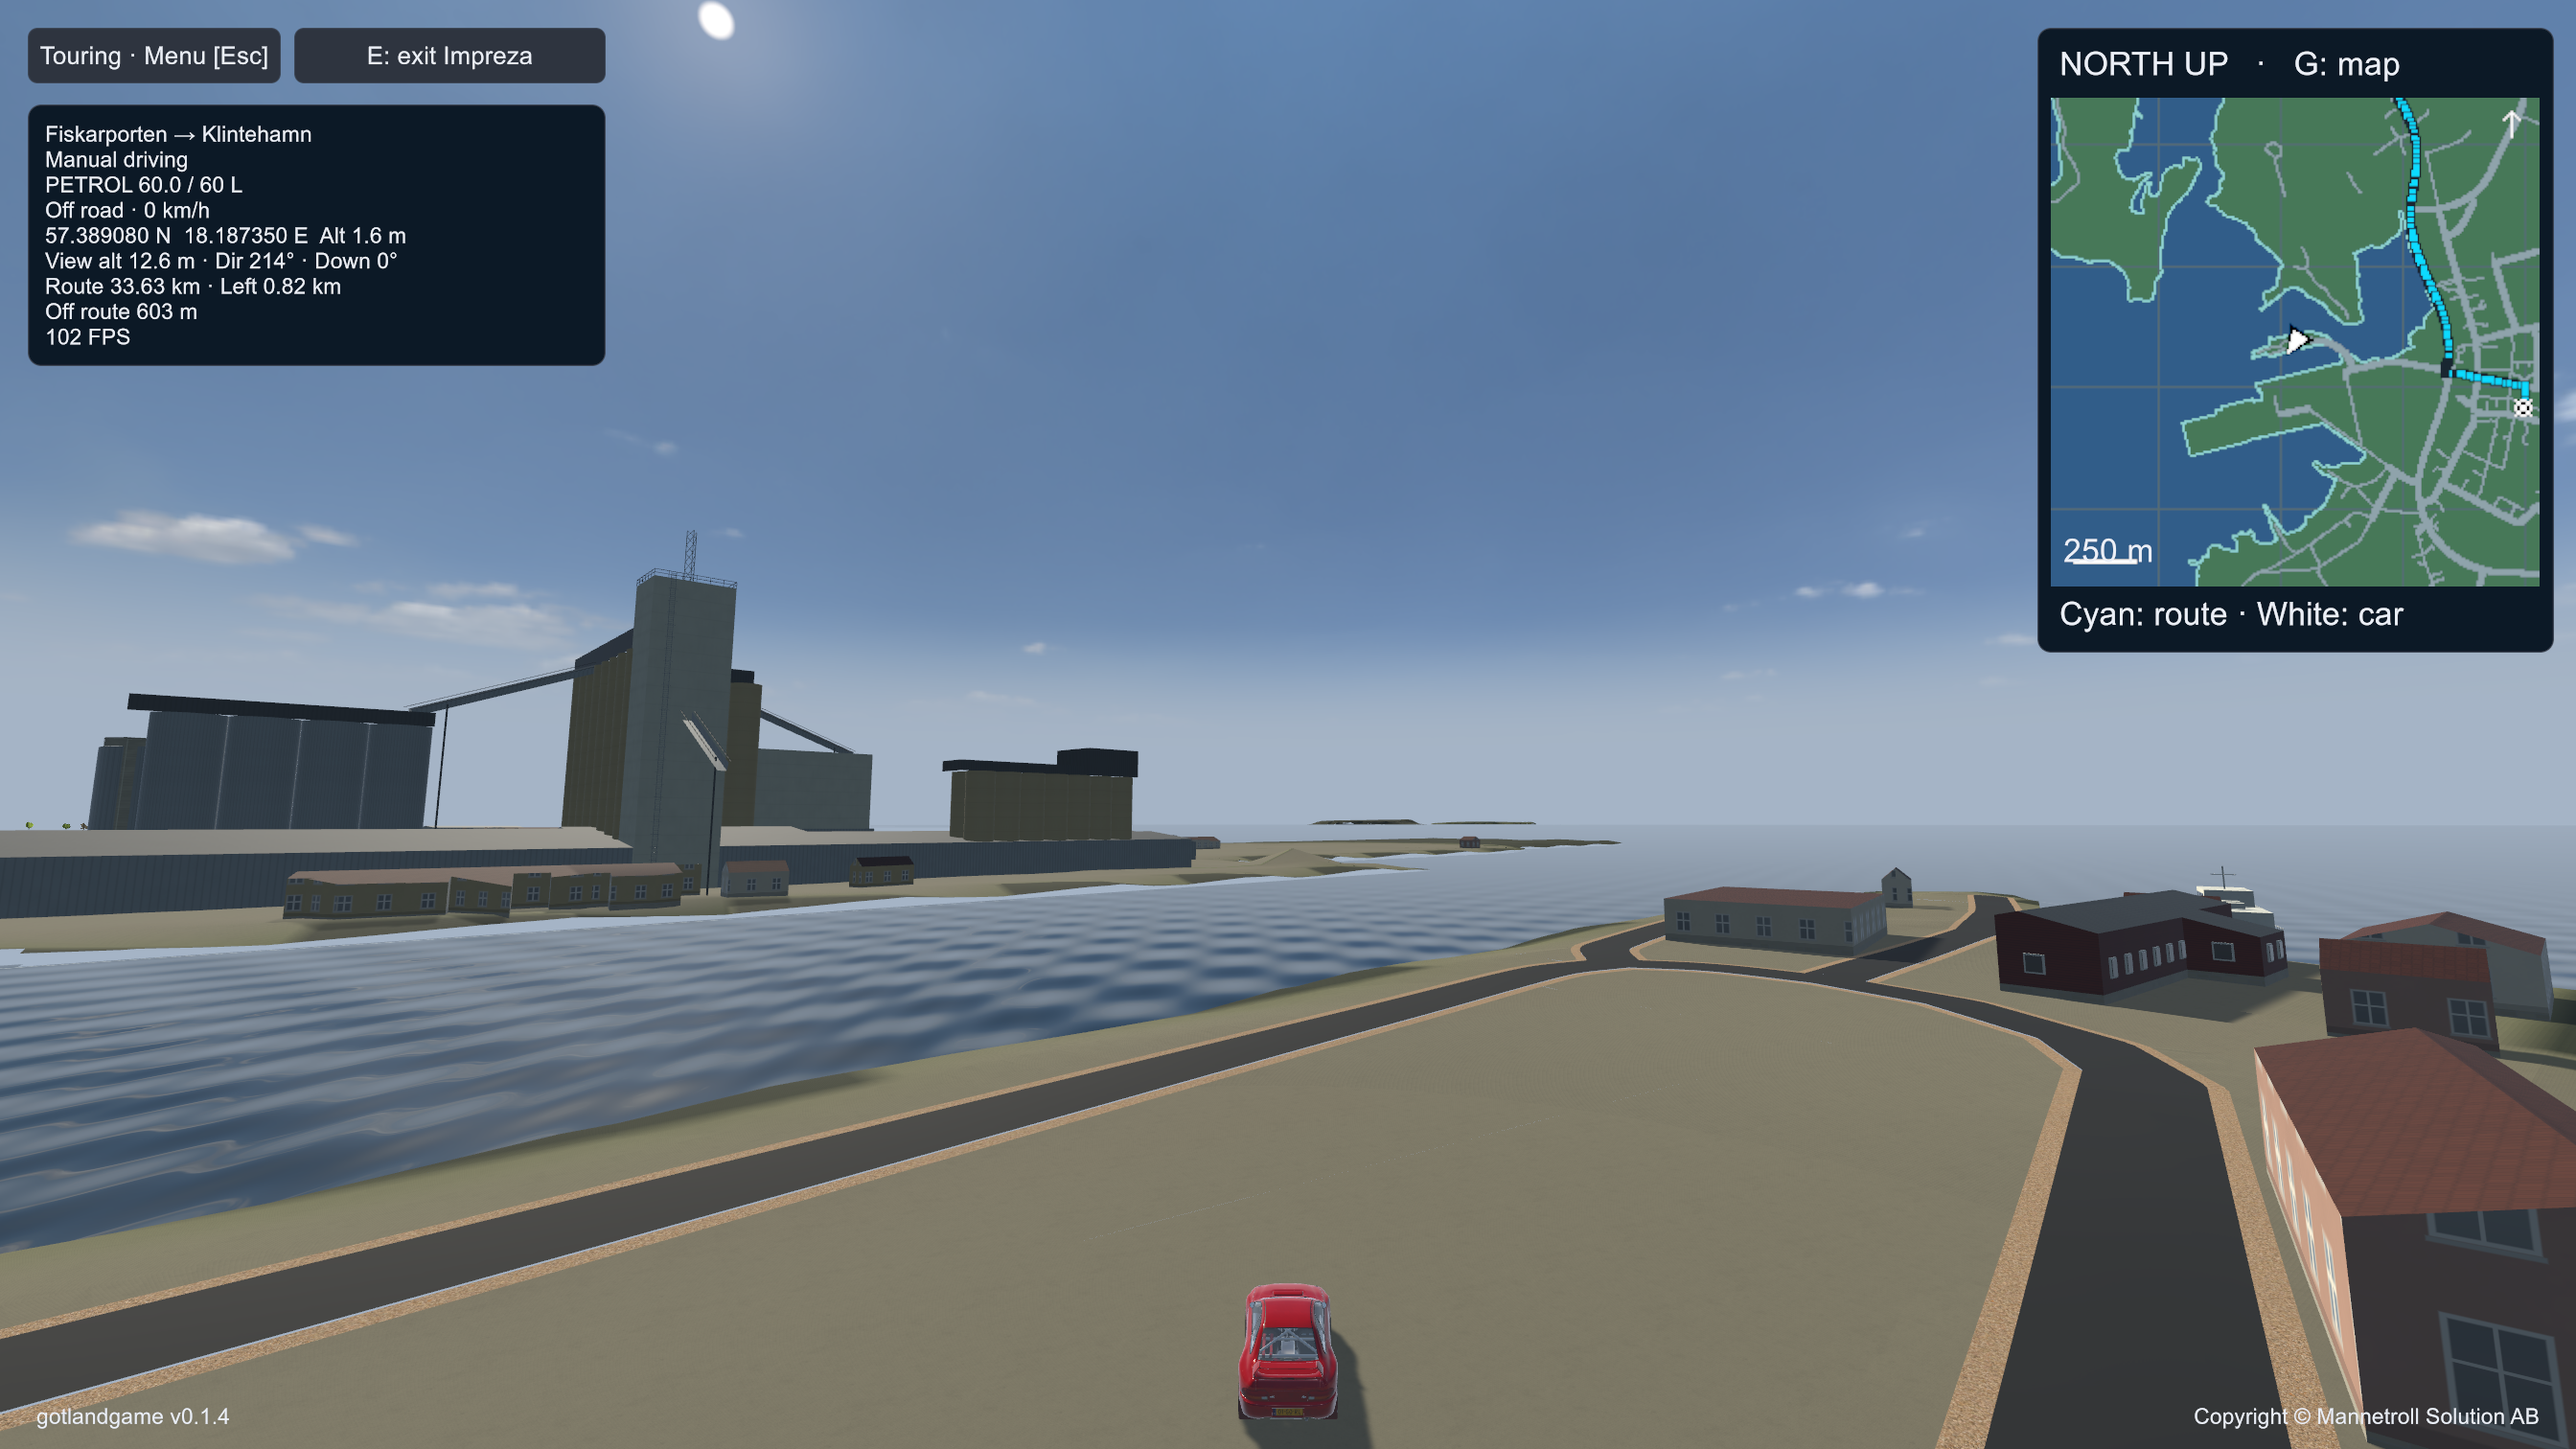
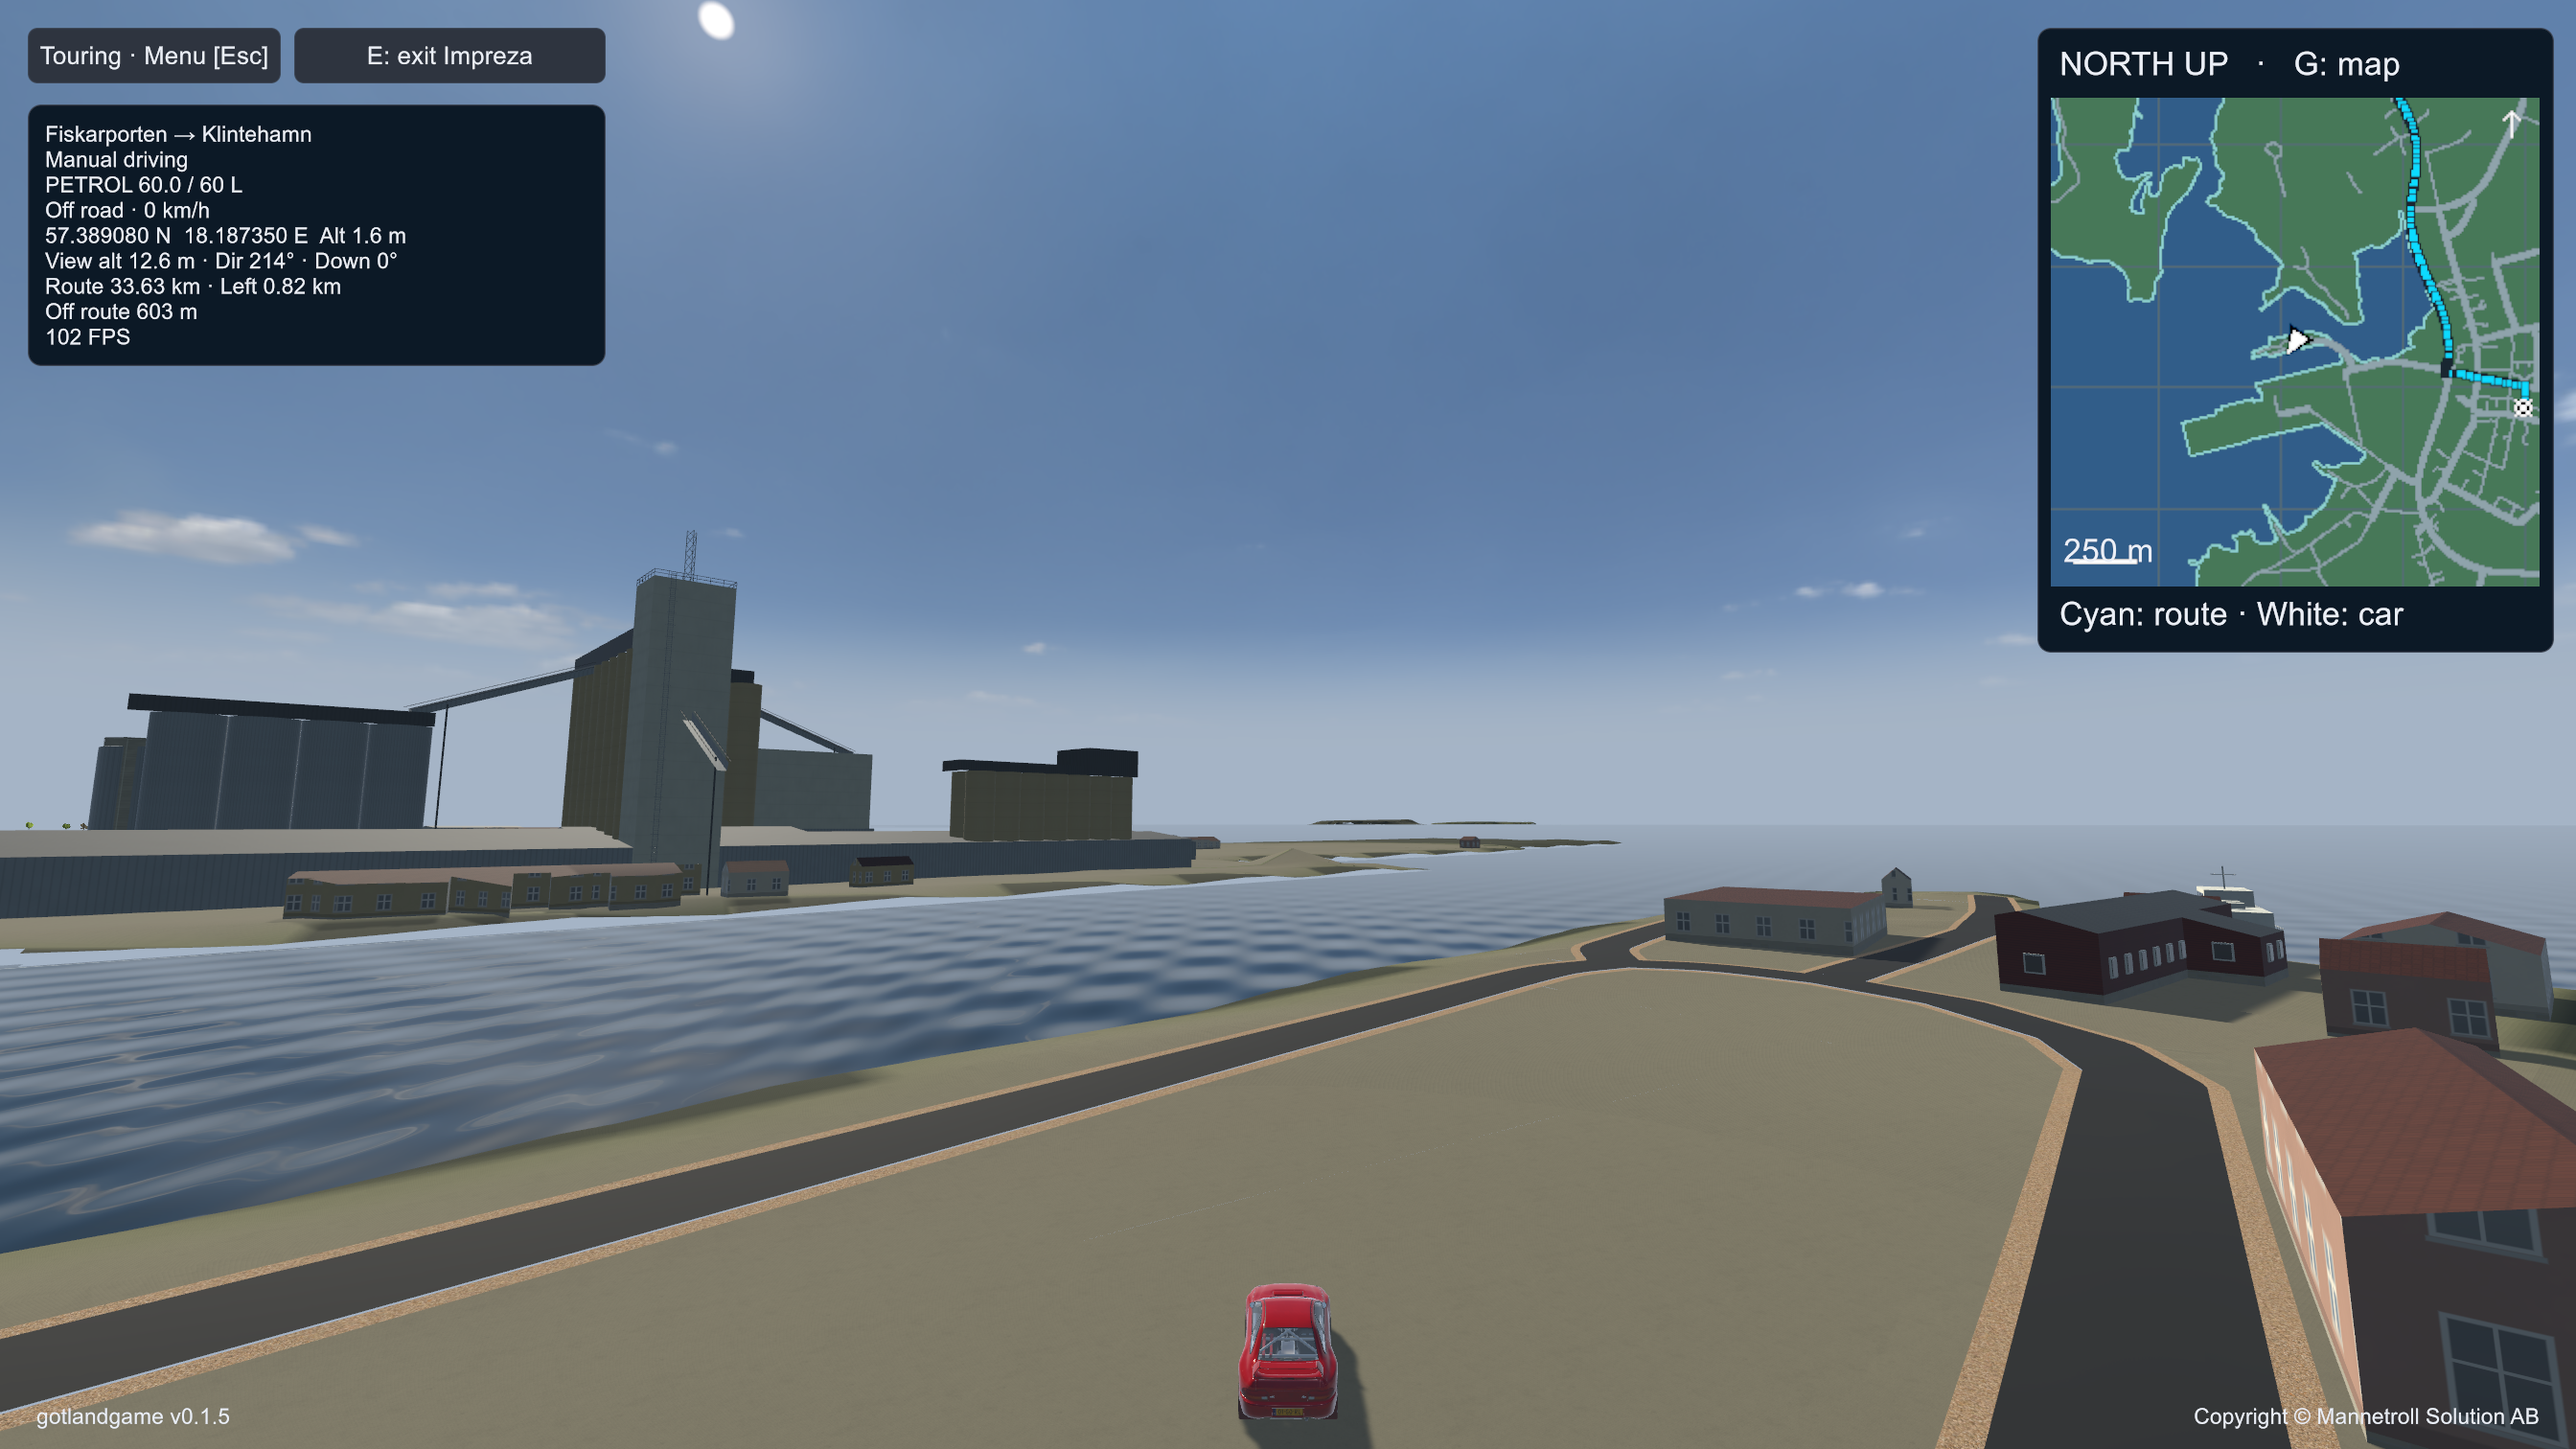
Prepare v0.1.5 scenery release and current screenshots

Changed region(s): [[0.0, 0.6217, 0.5938, 0.8704]]

diff --git a/index.html b/index.html
@@ -37,7 +37,7 @@
     </nav>
     <footer>
       <p>Actual game footage and sound from the macOS development preview · 18 October 2026.</p>
-      <p>Download v0.1.4 for Windows 10, Windows 11 and Apple Silicon macOS, with saved Home startup, the Visby–Kovik Quay tour, updated Kovik scenery and the harbour launch ramp.</p>
+      <p>Download v0.1.5 for Windows 10, Windows 11 and Apple Silicon macOS, with improved Gotland house roofs, the repaired Hemse church tower, and the Visby–Kovik Quay tour.</p>
     </footer>
   </main>
 </body>

diff --git a/README.md b/README.md
@@ -46,34 +46,37 @@ Counts refer to map entries; some locations have more than one entry.
 
 ## Downloads
 
-**v0.1.4 is updated to macOS.26 for both macOS and Windows.**
+**v0.1.5 brings the `orto.8` scenery improvements to macOS and Windows.**
 
 Download **every file for your platform** into the same folder and keep their names unchanged. GitHub's per-file limit requires multiple parts; the disk image or installer reads them together.
 
 | Platform | Download | Open after downloading all parts |
 |---|---|---|
-| macOS 12 or later, Apple Silicon | [Disk image](https://github.com/mannetroll/gotlandgame/releases/download/v0.1.4/GotlandWorld-v0.1.4-macOS-arm64.dmg) · [Part 2](https://github.com/mannetroll/gotlandgame/releases/download/v0.1.4/GotlandWorld-v0.1.4-macOS-arm64.002.dmgpart) · [Part 3](https://github.com/mannetroll/gotlandgame/releases/download/v0.1.4/GotlandWorld-v0.1.4-macOS-arm64.003.dmgpart) | The `.dmg` file |
-| Windows 10 22H2 (build 19045) or Windows 11, x64 | [Setup](https://github.com/mannetroll/gotlandgame/releases/download/v0.1.4/GotlandWorld-v0.1.4-Windows-x64-Setup.exe) · [Data 1](https://github.com/mannetroll/gotlandgame/releases/download/v0.1.4/GotlandWorld-v0.1.4-Windows-x64-Setup-1.bin) · [Data 2](https://github.com/mannetroll/gotlandgame/releases/download/v0.1.4/GotlandWorld-v0.1.4-Windows-x64-Setup-2.bin) · [Data 3](https://github.com/mannetroll/gotlandgame/releases/download/v0.1.4/GotlandWorld-v0.1.4-Windows-x64-Setup-3.bin) | The `Setup.exe` file |
+| macOS 12 or later, Apple Silicon | [Disk image](https://github.com/mannetroll/gotlandgame/releases/download/v0.1.5/GotlandWorld-v0.1.5-macOS-arm64.dmg) · [Part 2](https://github.com/mannetroll/gotlandgame/releases/download/v0.1.5/GotlandWorld-v0.1.5-macOS-arm64.002.dmgpart) · [Part 3](https://github.com/mannetroll/gotlandgame/releases/download/v0.1.5/GotlandWorld-v0.1.5-macOS-arm64.003.dmgpart) | The `.dmg` file |
+| Windows 10 22H2 (build 19045) or Windows 11, x64 | [Setup](https://github.com/mannetroll/gotlandgame/releases/download/v0.1.5/GotlandWorld-v0.1.5-Windows-x64-Setup.exe) · [Data 1](https://github.com/mannetroll/gotlandgame/releases/download/v0.1.5/GotlandWorld-v0.1.5-Windows-x64-Setup-1.bin) · [Data 2](https://github.com/mannetroll/gotlandgame/releases/download/v0.1.5/GotlandWorld-v0.1.5-Windows-x64-Setup-2.bin) · [Data 3](https://github.com/mannetroll/gotlandgame/releases/download/v0.1.5/GotlandWorld-v0.1.5-Windows-x64-Setup-3.bin) | The `Setup.exe` file |
 
-[SHA-256 checksums](https://github.com/mannetroll/gotlandgame/releases/download/v0.1.4/SHA256SUMS) cover both platforms. See [installation instructions](INSTALL.md) for verification and first-launch details. Allow at least 18 GB free while downloading and installing. No Unity Editor, .NET installation, account or geographic downloads are required to play.
+[SHA-256 checksums](https://github.com/mannetroll/gotlandgame/releases/download/v0.1.5/SHA256SUMS) cover both platforms. See [installation instructions](INSTALL.md) for verification and first-launch details. Allow at least 18 GB free while downloading and installing. No Unity Editor, .NET installation, account or geographic downloads are required to play.
 
 Use the named game files under **Releases → Assets**. GitHub's automatic **Source code (zip/tar.gz)** links contain only this documentation repository; they are not game downloads.
 
 | Package | Complete download | Installed size |
 |---|---:|---:|
-| macOS Apple Silicon | 5.125 GB | 5.481 GB |
-| Windows x64 | 5.108 GB | 5.531 GB |
+| macOS Apple Silicon | 5.151 GB | 5.511 GB |
+| Windows x64 | 5.134 GB | 5.561 GB |
 
 Sizes use decimal GB. When downloading an update, replace **all parts**
 for that platform together; do not mix old and new files.
 
-## Latest update
+## New in v0.1.5
 
-- Modern dark menus and rounded controls. Gotland Ring groups the lap timer, FPS and side slip in one bottom-right panel, with five small buttons on one row and copyright in the footer. Each button shows its assigned key, including custom bindings. The space below the minimap stays clear.
-- **J** toggles the driving HUD; **K** saves a Desktop PNG with location and camera metadata.
-- **Keyboard help & setup** in the Escape menu lets you change individual key bindings, shared between Touring and Gotland Ring.
+- Improved residential roof outlines and heights across Gotland, using mapped outlines and laser measurements where supported.
+- Corrected Hemse church's tower and spire connection.
+- Removed obsolete roof-edge strips, including the hanging lines seen around Valbyte.
+- Runne and Kovik retain their approved scenery. Unsupported measurements and complex buildings retain their existing models.
+- Small additional scenery footprint, with no new roof textures.
 
-## New in v0.1.4
+## Touring features
+
 
 - **Saved Home:** choose a POI, a searched destination, a map pin or your current car position from **G → Home**. The next launch starts there directly, facing the saved direction.
 - **Compact G-map controls:** a smaller search box, a **Home** button and the saved POI name beside it. **Warp** sits in the footer below the map, clear of the map and attribution.

diff --git a/INSTALL.md b/INSTALL.md
@@ -1,12 +1,12 @@
 # Install Gotland World
 
-Download the files for your platform from the [download release](https://github.com/mannetroll/gotlandgame/releases/latest). Both platforms are v0.1.4, updated to macOS.26, with compact terrain storage. Keep all parts in one folder and retain their exact names. Allow at least 18 GB free while downloading and installing. The installed macOS app uses approximately 5.481 GB; Windows uses approximately 5.531 GB.
+Download the files for your platform from the [download release](https://github.com/mannetroll/gotlandgame/releases/latest). Both platforms are v0.1.5, built from orto.8, with compact terrain storage. Keep all parts in one folder and retain their exact names. Allow at least 18 GB free while downloading and installing. The installed macOS app uses approximately 5.511 GB; Windows uses approximately 5.561 GB.
 
 ## macOS — Apple Silicon
 
 Requires macOS 12 or later on an Apple Silicon Mac. Intel Macs are not supported by this download.
 
-1. Download `GotlandWorld-v0.1.4-macOS-arm64.dmg` and both accompanying parts (`.002.dmgpart`, `.003.dmgpart`) into the same folder.
+1. Download `GotlandWorld-v0.1.5-macOS-arm64.dmg` and both accompanying parts (`.002.dmgpart`, `.003.dmgpart`) into the same folder.
 2. Open the `.dmg` file. macOS reads the accompanying parts automatically.
 3. Drag `GotlandWorld.app` to Applications. Keep the accompanying licence notices if you redistribute the game.
 4. Eject the disk image, then open GotlandWorld from Applications.
@@ -19,7 +19,7 @@ If the disk image cannot open, confirm all three files finished downloading, are
 
 Requires Windows 10 22H2 (build 19045) or later, including Windows 11, and a Direct3D 11 capable GPU. The same installer runs on both operating systems.
 
-1. Download `GotlandWorld-v0.1.4-Windows-x64-Setup.exe` and all three matching data parts, `GotlandWorld-v0.1.4-Windows-x64-Setup-1.bin` through `GotlandWorld-v0.1.4-Windows-x64-Setup-3.bin` from the release into the same folder.
+1. Download `GotlandWorld-v0.1.5-Windows-x64-Setup.exe` and all three matching data parts, `GotlandWorld-v0.1.5-Windows-x64-Setup-1.bin` through `GotlandWorld-v0.1.5-Windows-x64-Setup-3.bin` from the release into the same folder.
 2. Open the Setup executable and choose the install folder. Installation is per-user and does not require administrator rights.
 3. Launch **Gotland World** from the Start menu or the optional Desktop shortcut.
 
@@ -31,7 +31,7 @@ The portable game layout remains `GotlandWorld.exe` beside `GotlandWorld_Data`. 
 
 ## Verify downloads
 
-Download [`SHA256SUMS`](https://github.com/mannetroll/gotlandgame/releases/download/v0.1.4/SHA256SUMS) into the folder containing your platform’s files.
+Download [`SHA256SUMS`](https://github.com/mannetroll/gotlandgame/releases/download/v0.1.5/SHA256SUMS) into the folder containing your platform’s files.
 
 On macOS, open Terminal in that folder and run:
 
